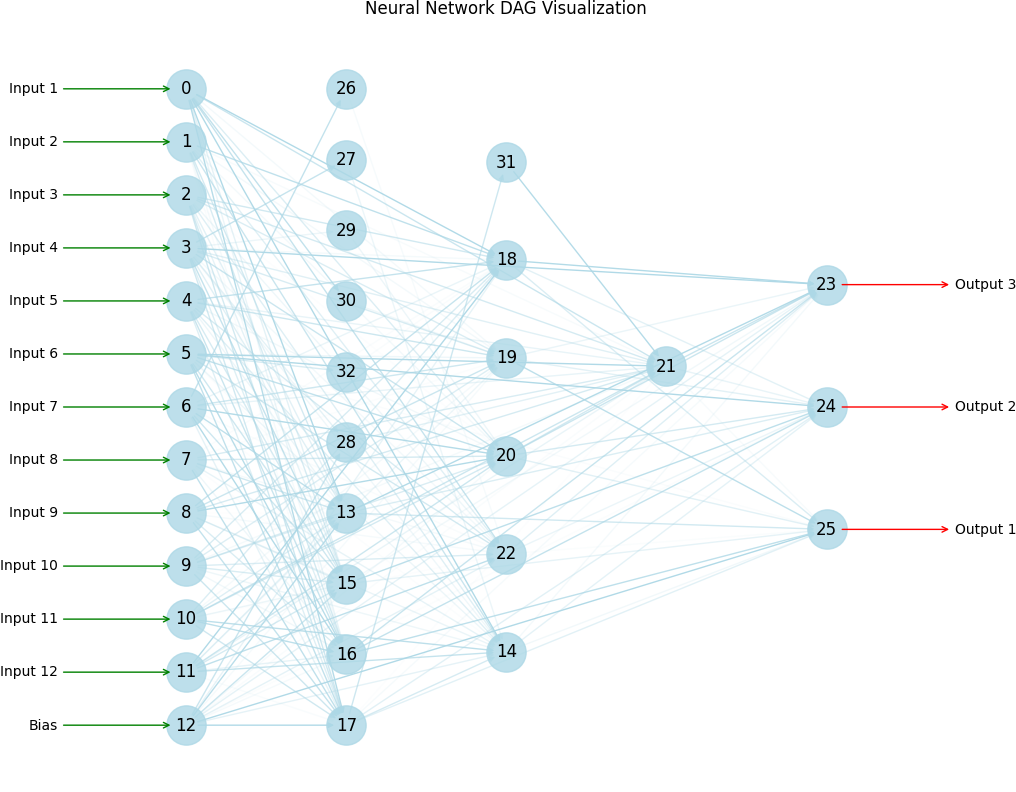
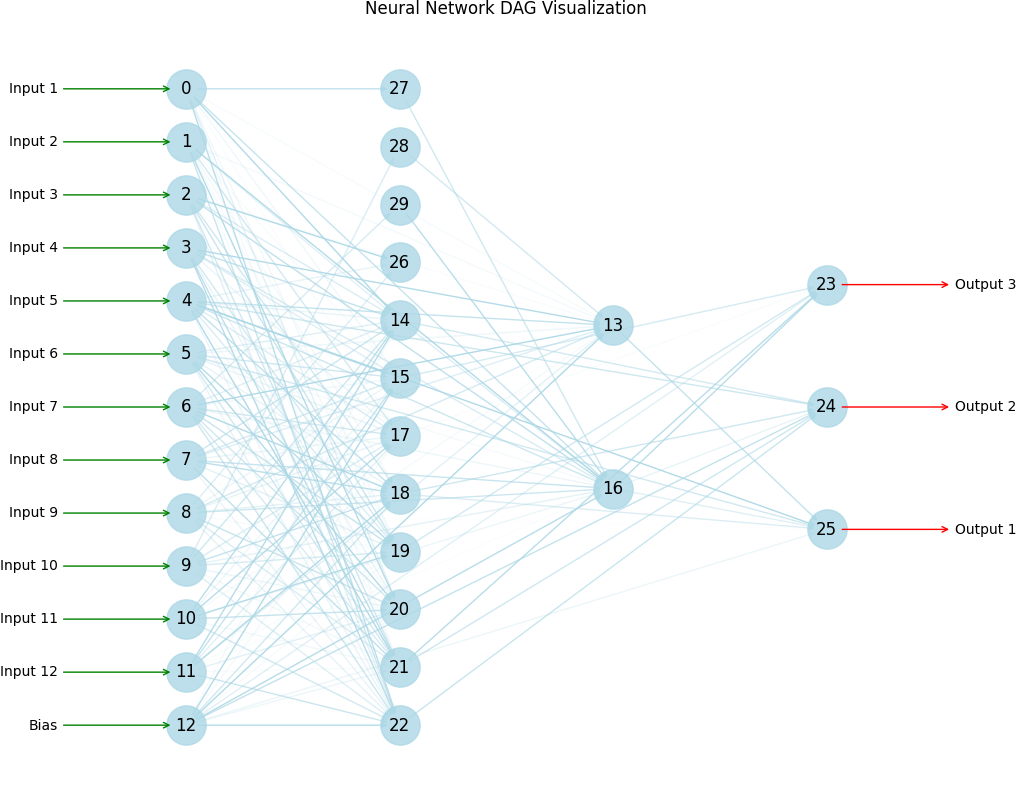
update initial topology

Changed region(s): [[0.1831, 0.0909, 0.7933, 0.9394], [0.4577, 0.1818, 0.5187, 0.2424], [0.6713, 0.697, 0.7323, 0.7273]]

diff --git a/fineNeat/sneat_train.py b/fineNeat/sneat_train.py
@@ -42,7 +42,7 @@ def mutate(ind, p):
 
 
 game = games['slimevolleylite']
-population = [Ind.from_shapes([(game.input_size, 10), (10, game.output_size)]) for _ in range(population_size)]
+population = [Ind.from_shapes([(game.input_size, 5), (5, 5), (5, game.output_size)]) for _ in range(population_size)]
 winning_streak = [0] * population_size # store the number of wins for this agent (including mutated ones)
 
 # create the gym environment, and seed it

diff --git a/eval_agents.py b/eval_agents.py
@@ -126,7 +126,7 @@ if __name__=="__main__":
     "neat": "runs/neat/volley140_best.json",
     "sneat": "runs/sneat/sneat_00500000.json",
     "sneat_tune": "runs/sneat_tune/sneat_00068000.json",
-    "sneat_sp": "runs/sneat_sp/sneat_00005000.json"
+    "sneat_sp": "runs/sneat_sp/sneat_00015000.json"
   }
 
   MODEL = {
